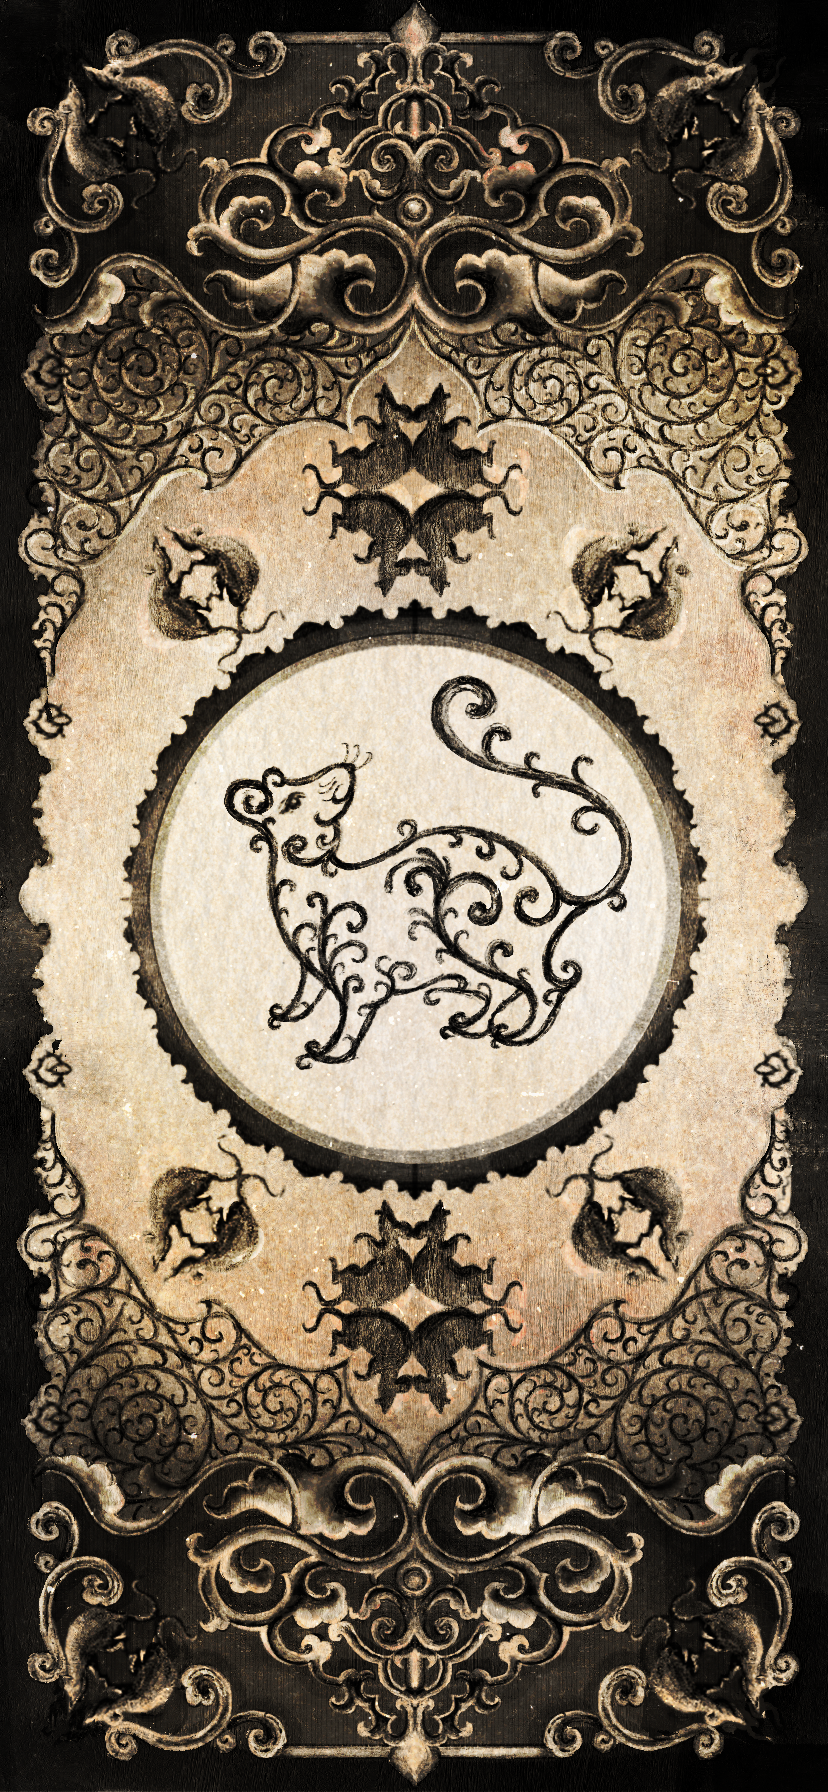
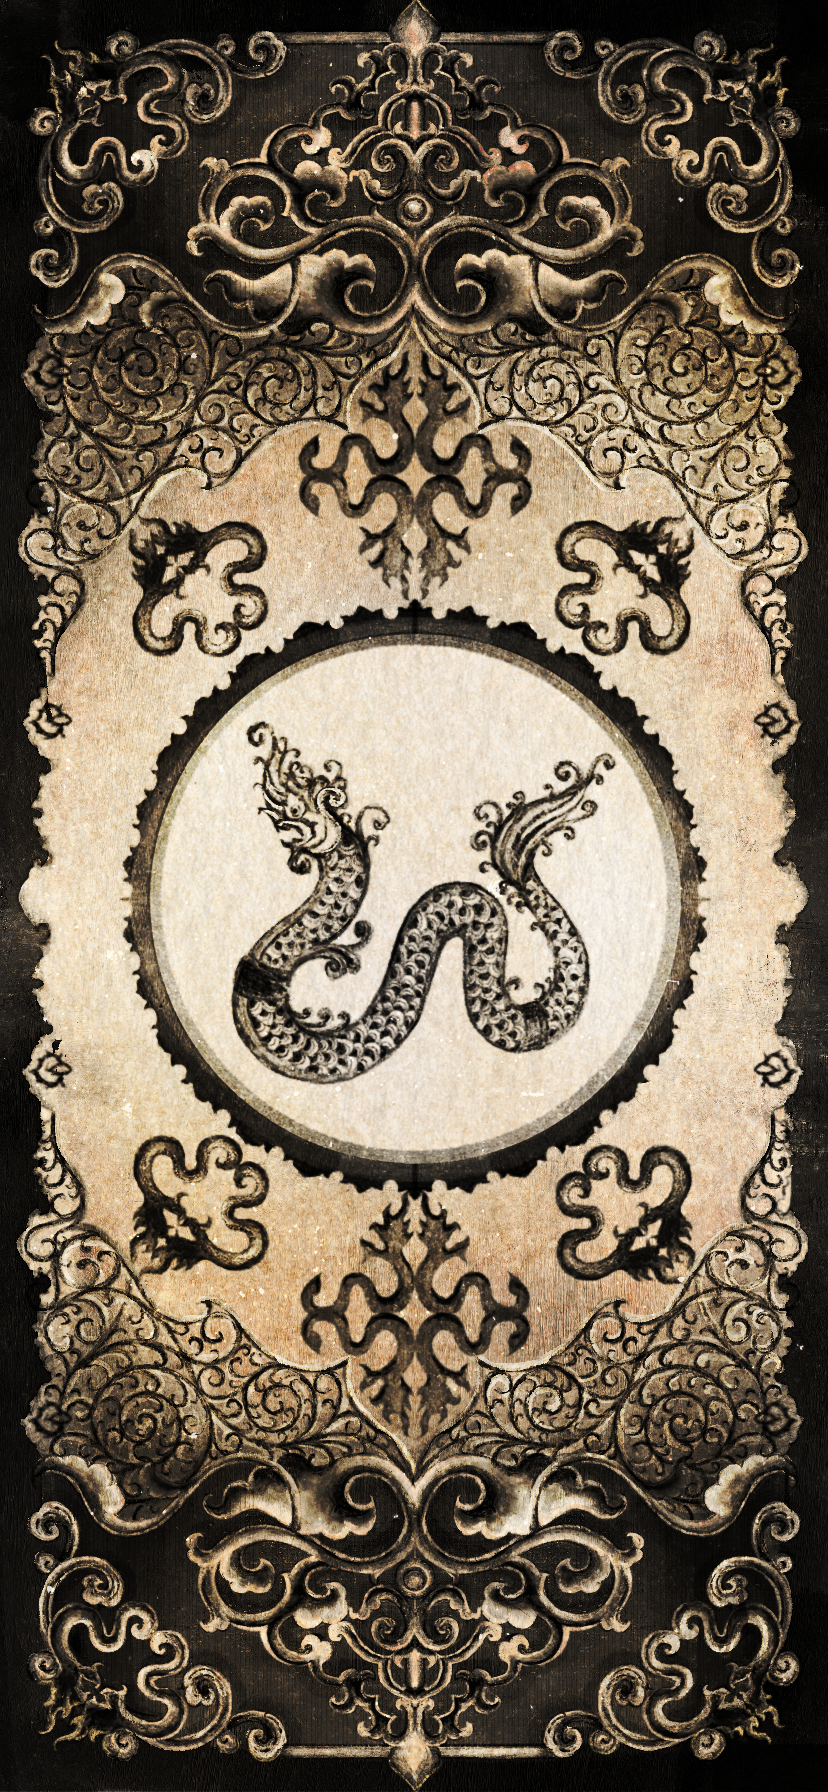
update

diff --git a/pages/section5.js b/pages/section5.js
@@ -13,52 +13,40 @@ const Section5 = () => {
   const { mute, isMute } = useContext(BgMusicContext)
   const zodiac = [
     {
-      title: "ราศีมังกร",
-      img: "https://pbs.twimg.com/media/FNwpogTXsAAHc-d?format=jpg&name=large",
+      title: "ปีชวด",
     },
     {
-      title: "ราศีกุมภ์",
-      img: "https://pbs.twimg.com/media/FNwG81iXMAc01fR?format=jpg&name=large",
+      title: "ปีฉลู",
     },
     {
-      title: "ราศีมีน",
-      img: "https://pbs.twimg.com/media/FNwDsCeXoAIZRXN?format=jpg&name=900x900",
+      title: "ปีขาล",
     },
     {
-      title: "ราศีเมษ",
-      img: "https://pbs.twimg.com/media/FNwBTUiXoAUohBF?format=jpg&name=large",
+      title: "ปีเถาะ",
     },
     {
-      title: "ราศีพฤษก",
-      img: "https://pbs.twimg.com/media/FNM4AspXwAEnTjY?format=jpg&name=large",
+      title: "ปีมะโรง",
     },
     {
-      title: "ราศีเมถุน",
-      img: "https://pbs.twimg.com/media/FL-2YrPXMAE-gC7?format=jpg&name=large",
+      title: "ปีมะเส็ง",
     },
     {
-      title: "ราศีกรกฎ",
-      img: "https://pbs.twimg.com/media/FLRhZcKXwBYd1P1?format=jpg&name=large",
+      title: "ปีมะเมีย",
     },
     {
-      title: "ราศีสิงห์",
-      img: "https://pbs.twimg.com/media/FLO1IyXXsAQyESa?format=jpg&name=4096x4096",
+      title: "ปีมะแม",
     },
     {
-      title: "ราศีกันย์",
-      img: "https://pbs.twimg.com/media/FJBQWxeXMAciaad?format=jpg&name=large",
+      title: "ปีวอก",
     },
     {
-      title: "ราศีตุลย์",
-      img: "https://pbs.twimg.com/media/FMZ3TDfWUAEJuzt?format=jpg&name=large",
+      title: "ปีระกา",
     },
     {
-      title: "ราศีพิจิก",
-      img: "https://pbs.twimg.com/media/FMZ3z-rXMAsZU7w?format=jpg&name=medium",
+      title: "ปีจอ",
     },
     {
-      title: "ราศีธนู",
-      img: "https://pbs.twimg.com/media/FNwpGSfXoAgeFHh?format=jpg&name=900x900",
+      title: "ปีกุน",
     },
   ]
 
@@ -134,7 +122,7 @@ const Section5 = () => {
           <div className="relative">
             <h1 className="header-font lg:text-7xl text-4xl text-white text-center xl:mb-6 mb-1">ของที่ระลึกงานศพ</h1>
             <a href={`/download/${download}.png`} download className="absolute right-[4%] top-[35%]">
-              <img src="/icon/download.svg" alt="" className="w-[50px] h-[50px]" />
+              <img src="/icon/download.svg" alt="" className="w-[45px] h-[45px]" />
             </a>
           </div>
           <Slider {...settings}>
@@ -142,8 +130,8 @@ const Section5 = () => {
               <Slide className={`xl:h-[49vh] h-[40vh] md:min-h-[320px] min-h-[300px] ${index === imageIndex ? "activeSlide" : "slide"}`} key={index}>
                 <div className="flex flex-col justify-center items-center h-full ">
                   <div className="h-full">
-                    <div className="img-slide duration-200 mx-auto 2xl:w-[80%] lg:w-[90%] w-full flex bg-zinc-900 overflow-hidden justify-center items-center h-[88%] ">
-                      {/* <img src={value.img} className="w-full h-full object-cover" alt="" /> */}
+                    <div className="img-slide relative duration-200 mx-auto 2xl:w-[80%] lg:w-[90%] w-full flex bg-zinc-900 overflow-hidden justify-center items-center h-[88%] ">
+                      <img src={`/images/section5/zodiac/${index+1}.webp`} className="w-full h-full object-cover absolute" alt="" />
                       <img src="/images/section5/logo.svg" alt="placeholder-img" className="w-[40%] object-cover" />
                     </div>
                     <h3 className="lg:text-5xl text-3xl mt-1 header-font text-white text-center">{value.title}</h3>

diff --git a/pages/section4.js b/pages/section4.js
@@ -101,7 +101,7 @@ const Section4 = () => {
       <Panel8 setTimelinePoint={setTimelinePoint} />
       {/* Panel 9 */}
       <div
-        className="bg-[url('/images/section4/4.9/bg.webp')] bg-no-repeat relative bg-center max-w-screen min-h-screen hide-scrollbar overscroll-none panel9"
+        className="bg-[url('/images/section4/4.9/bg.webp')] will-change-transform bg-no-repeat relative bg-center max-w-screen min-h-screen hide-scrollbar overscroll-none panel9"
         ref={panel9Ref}
       >
         <div ref={textRef} className="absolute lg:left-[55%] left-[58%] 2xl:top-[16%] lg:top-[21%] top-[28%] text-black z-20">
@@ -119,7 +119,7 @@ const Section4 = () => {
           ref={plateRef}
           src="/images/section4/4.9/plate.webp"
           alt=""
-          className="absolute 2xl:w-[95%] w-[80%] h-full object-contain object-left top-0 left-0 z-10"
+          className="absolute 2xl:w-[95%] w-[80%] h-full object-contain object-left top-0 left-0 z-10 will-change-transform"
         />
 
         <div className="w-full h-full max-w-[50vw]">
@@ -127,7 +127,7 @@ const Section4 = () => {
             ref={canvasRef}
             src="/images/section4/4.9/canvas.webp"
             alt=""
-            className="absolute w-full h-full object-contain object-right  top-0 left-0"
+            className="absolute w-full h-full object-contain object-right top-0 left-0 will-change-transform"
           />
         </div>
       </div>

diff --git a/screens/section4/Panel10.js b/screens/section4/Panel10.js
@@ -50,7 +50,7 @@ const Panel10 = ({ setTimelinePoint }) => {
           initial={{ opacity: 0 }}
           animate={{ opacity: 1 }}
           transition={{ duration: 2 }}
-          className="absolute top-1/2 left-1/2 translate-x-[-50%] translate-y-[-50%] tr w-[80%] h-[80%] object-contain drop-shadow-md"
+          className="absolute top-1/2 left-1/2 translate-x-[-50%] translate-y-[-50%] tr w-[80%] h-[80%] object-contain"
         />
       )}
     </div>
